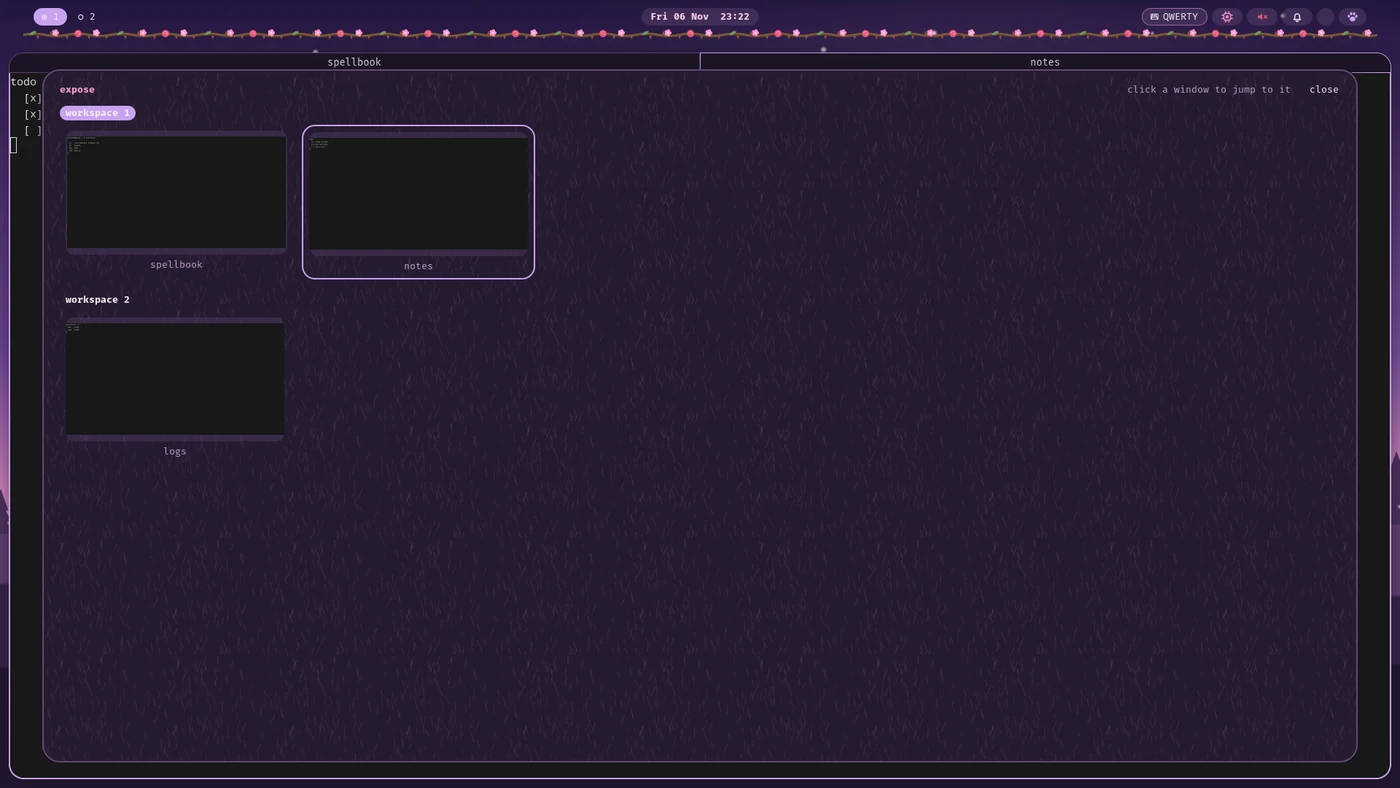
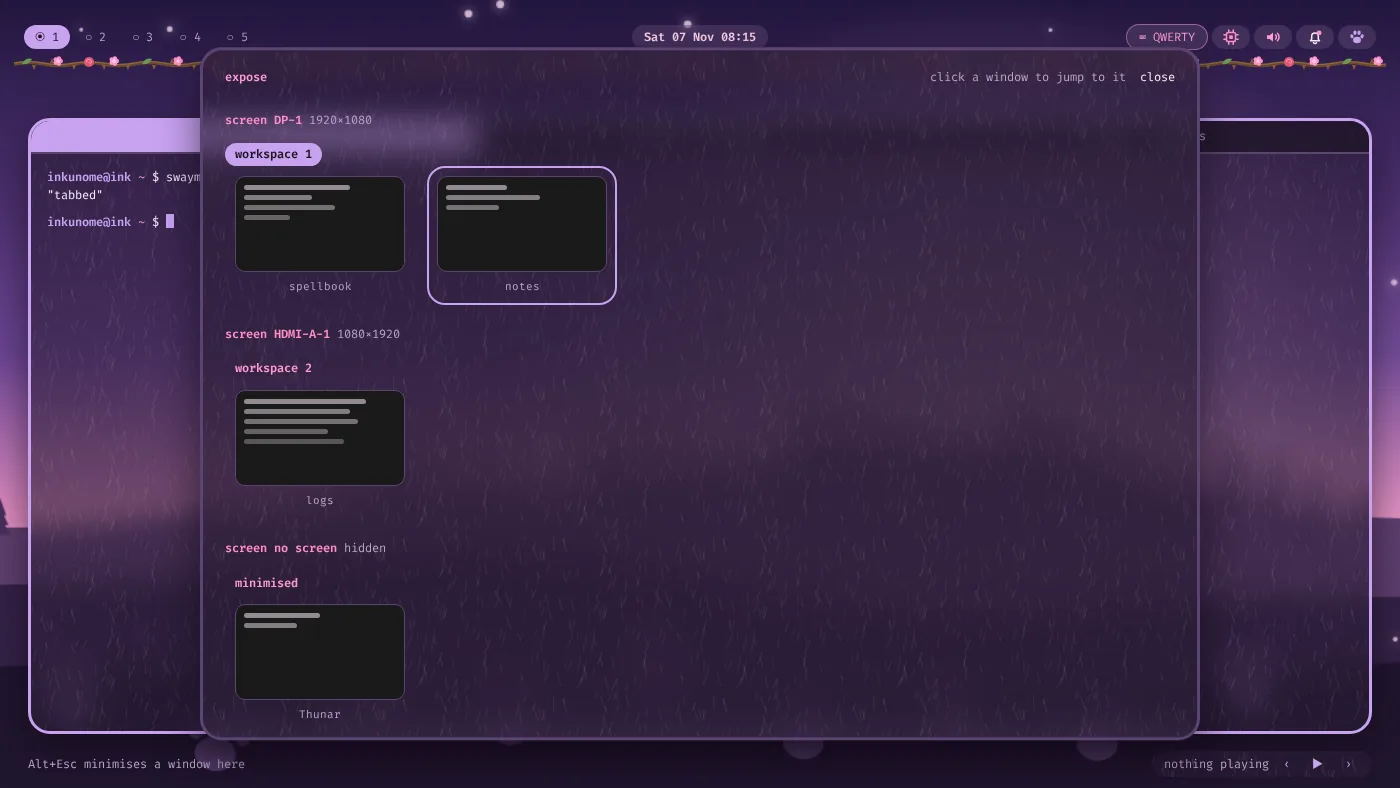
readme: new screenshots
Regenerated from the mock-up: the bottom strip, the expose grouped by screen, the portrait screen with its
workspaces, dock and clock, and the launcher's new dock hint.

diff --git a/README.md b/README.md
@@ -2,7 +2,7 @@
 
 A [Universal Blue](https://universal-blue.org/) image: [Bazzite](https://bazzite.gg/) (GNOME) with a second desktop, **swayfx + eww**, in light purple and pink, with a thorny branch of flowers under the bar. The Sway session is chosen from the GDM login screen; GNOME stays as a fallback.
 
-![Desktop: tabbed windows, bar with a thorny branch, lilac wallpaper](docs/img/desktop.webp)
+![Desktop: tabbed windows, bar with a thorny branch, bottom strip, lilac wallpaper](docs/img/desktop.webp)
 
 Everything lives in `build_files/`. The image is built by GitHub Actions and signed with cosign.
 
@@ -24,7 +24,7 @@ Everything lives in `build_files/`. The image is built by GitHub Actions and sig
 ### Launcher and expose
 
 ![App launcher with pinned applications](docs/img/launcher.webp)
-![Expose view: workspaces and window thumbnails](docs/img/expose.webp)
+![Expose view: workspaces and window thumbnails, grouped by screen](docs/img/expose.webp)
 
 ### Dashboard and menus
 
@@ -38,7 +38,7 @@ The bar is replaced by a dock, with that screen's workspaces at its left and a c
 
 | Dock | Dashboard |
 | :---: | :---: |
-| ![Portrait screen with the dock](docs/img/portrait.webp) | ![Portrait dashboard](docs/img/portrait-dashboard.webp) |
+| ![Portrait screen with workspaces, dock and clock](docs/img/portrait.webp) | ![Portrait dashboard](docs/img/portrait-dashboard.webp) |
 
 ## Install
 
